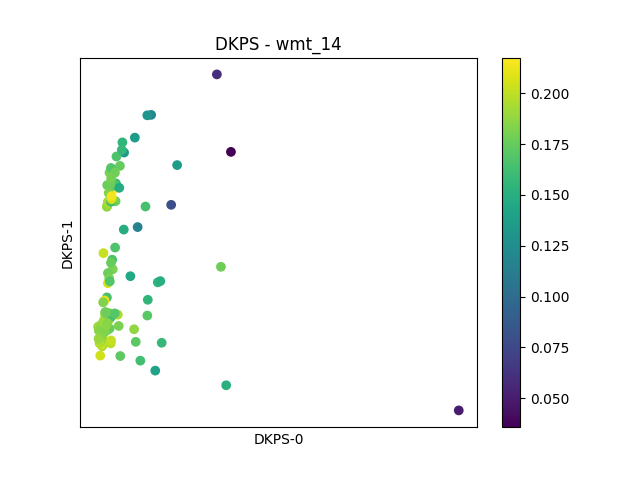
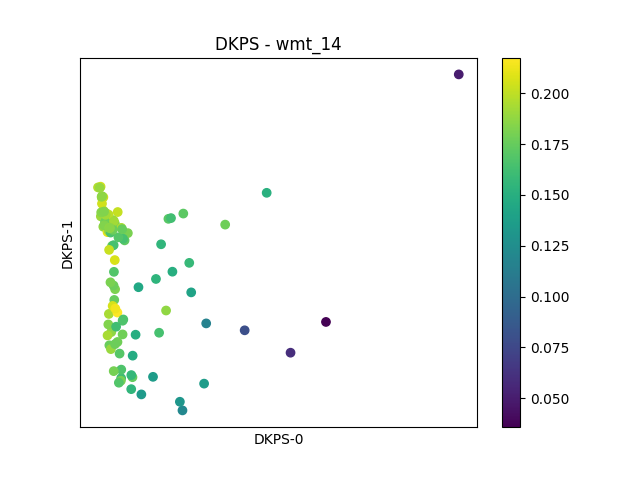
dkps loo experiments

diff --git a/examples/helm/wmt_14/run_dkps.py b/examples/helm/wmt_14/run_dkps.py
@@ -5,9 +5,12 @@
 
 import os
 import pickle
+import numpy as np
 import pandas as pd
 import matplotlib.pyplot as plt
 from rich import print as rprint
+
+from joblib import Parallel, delayed
 
 from dkps.dkps import DataKernelPerspectiveSpace
 from dkps.embed import embed_google
@@ -60,12 +63,19 @@ else:
     if USE_CACHE:
         pickle.dump(embedding_dict, open(CACHE_PATH, 'wb'))
 
+# Adding extra dimension because we only have one replicate
+embedding_dict = {k:v[:,None] for k,v in embedding_dict.items()}
+
 # --
 # Run DKPS
 
-dkps = DataKernelPerspectiveSpace().fit_transform(embedding_dict)
-
 model_names = list(embedding_dict.keys())
+
+dkps = DataKernelPerspectiveSpace().fit_transform(embedding_dict, return_dict=False)
+
+# --
+# Plotting
+
 model2score = df.groupby('model').score.mean().to_dict()
 _ = plt.scatter(dkps[:, 0], dkps[:,1], c=[model2score[xx] for xx in model_names], cmap='viridis')
 
@@ -76,14 +86,150 @@ _ = plt.scatter(dkps[:, 0], dkps[:,1], c=[model2score[xx] for xx in model_names]
 
 _ = plt.xticks([])
 _ = plt.yticks([])
+_ = plt.xlabel('DKPS-0')
+_ = plt.ylabel('DKPS-1')
 _ = plt.grid('both', alpha=0.25, c='gray')
 _ = plt.title(f'DKPS - {dataset}')
 _ = plt.colorbar()
 _ = plt.savefig(FIG_PATH)
 _ = plt.close()
 
-breakpoint()
-import numpy as np
-_ = plt.scatter(np.log10(dkps[:,0]), [model2score[xx] for xx in model_names])
-_ = plt.savefig(f'tmp.png')
+# Plot first DKPS dimension vs performance
+z = -1 * dkps[:,0]
+z = z - z.mean()
+z = z / z.std()
+
+_ = plt.scatter(z, [model2score[xx] for xx in model_names], c=dkps[:,1], cmap='inferno')
+_ = plt.xlim(np.percentile(z, 2), z.max() + 0.1)
+_ = plt.xlabel('DKPS-0 (flipped, z-scored)')
+_ = plt.ylabel('BLEU-4')
+_ = plt.colorbar()
+_ = plt.savefig(f'tmp-0.png')
 _ = plt.close()
+
+# Plot second DKPS dimension vs performance
+z = -1 * dkps[:,1]
+z = z - z.mean()
+z = z / z.std()
+
+_ = plt.scatter(z, [model2score[xx] for xx in model_names], c=dkps[:,0], cmap='inferno')
+# _ = plt.xlim(np.percentile(z, 2), z.max() + 0.1)
+_ = plt.xlabel('DKPS-1 (flipped, z-scored)')
+_ = plt.ylabel('BLEU-4')
+_ = plt.colorbar()
+_ = plt.savefig(f'tmp-1.png')
+_ = plt.close()
+
+# --
+# Efficient estimation
+
+from scipy.stats import spearmanr
+from sklearn.ensemble import RandomForestRegressor
+from sklearn.linear_model import LinearRegression
+from sklearn.model_selection import cross_val_predict, LeaveOneOut
+
+y    = np.array([model2score[xx] for xx in model_names])
+uids = df.instance_id.unique()
+
+def run_one(iter, n_records):
+    rng   = np.random.default_rng(123 + iter)
+    idxs_ = rng.choice(len(uids), size=n_records, replace=False)
+    uids_ = uids[idxs_]
+    
+    # predictions
+    dkps2  = DataKernelPerspectiveSpace(n_components_cmds=2).fit_transform({k:v[idxs_] for k,v in embedding_dict.items()}, return_dict=False)
+    dkps8  = DataKernelPerspectiveSpace(n_components_cmds=8).fit_transform({k:v[idxs_] for k,v in embedding_dict.items()}, return_dict=False)
+    
+    rf2    = RandomForestRegressor(n_estimators=512, oob_score=True, random_state=234 + iter).fit(dkps2, y)    
+    rf8    = RandomForestRegressor(n_estimators=512, oob_score=True, random_state=234 + iter).fit(dkps8, y)
+    
+    p_lr2  = cross_val_predict(LinearRegression(), dkps2, y, cv=LeaveOneOut())
+    p_lr8  = cross_val_predict(LinearRegression(), dkps8, y, cv=LeaveOneOut())
+    
+    # mu - average of scores for each model
+    p_mu = df[df.instance_id.isin(uids_)].groupby('model').score.mean()
+    assert all(p_mu.index == model_names)
+    
+    p_null_f = y.mean() # slight cheat - should be doing LOO
+    
+    # metrics
+    e_rf2_dkps = np.mean(np.abs(rf2.oob_prediction_ - y) / y)
+    e_rf8_dkps = np.mean(np.abs(rf8.oob_prediction_ - y) / y)
+    e_lr2_dkps = np.mean(np.abs(p_lr2 - y) / y)
+    e_lr8_dkps = np.mean(np.abs(p_lr8 - y) / y)
+    e_mu       = np.mean(np.abs(p_mu - y) / y)
+    e_null     = np.mean(np.abs(p_null_f - y) / y)
+    
+    r_rf2_dkps = spearmanr(rf2.oob_prediction_, y)[0]
+    r_rf8_dkps = spearmanr(rf8.oob_prediction_, y)[0]
+    r_lr2_dkps = spearmanr(p_lr2, y)[0]
+    r_lr8_dkps = spearmanr(p_lr8, y)[0]
+    r_mu       = spearmanr(p_mu, y)[0]
+    r_null      = 0
+    
+    return {
+        "iter"      : iter,
+        "n_records" : n_records,
+        
+        "e_rf2_dkps" : e_rf2_dkps,
+        "e_rf8_dkps" : e_rf8_dkps,
+        "e_lr2_dkps" : e_lr2_dkps,
+        "e_lr8_dkps" : e_lr8_dkps,
+        "e_mu"       : e_mu,
+        "e_null"     : e_null,
+        
+        "r_rf2_dkps" : r_rf2_dkps,
+        "r_rf8_dkps" : r_rf8_dkps,
+        "r_lr2_dkps" : r_lr2_dkps,
+        "r_lr8_dkps" : r_lr8_dkps,
+        "r_mu"       : r_mu,
+        "r_null"     : r_null,
+    }
+
+
+breakpoint()
+
+jobs = []
+for iter in range(10):
+    for n_records in [1, 2, 3, 4, 5, 6, 7, 8, 9, 10, 11, 12, 13, 14, 15, 16, 32, 64, 128, 256]:
+        jobs.append(delayed(run_one)(iter=iter, n_records=n_records))
+
+res = Parallel(n_jobs=-1, verbose=10)(jobs)
+
+df_res = pd.DataFrame(res)
+
+tmp = df_res.groupby(['n_records']).mean()
+tmp = tmp.reset_index()
+
+# plot error
+for c in df_res.columns:
+    if 'e_' in c:
+        # _ = plt.scatter(df_res.n_records, df_res[c], alpha=0.25, s=8)
+        _ = plt.plot(tmp.n_records, tmp[c], label=f'{c}')
+
+_ = plt.legend()
+_ = plt.xlabel('n_records')
+_ = plt.ylabel('mean(abs(pred - y) / y)')
+_ = plt.title('DKPS vs. null')
+_ = plt.xscale('log')
+# _ = plt.yscale('log')
+_ = plt.savefig('res0.png')
+_ = plt.close()
+
+# plot corr
+for c in df_res.columns:
+    if 'r_' in c:
+        # _ = plt.scatter(df_res.n_records, df_res[c], alpha=0.25, s=8)
+        _ = plt.plot(tmp.n_records, tmp[c], label=f'{c}')
+
+_ = plt.legend()
+_ = plt.xlabel('n_records')
+_ = plt.ylabel('spearmanr(pred, y)')
+_ = plt.title('DKPS vs. null')
+_ = plt.xscale('log')
+# _ = plt.yscale('log')
+_ = plt.savefig('res1.png')
+_ = plt.close()
+
+
+breakpoint()

diff --git a/dkps/dkps.py b/dkps/dkps.py
@@ -7,48 +7,47 @@ from .utils import knn_graph
 
 
 class DataKernelPerspectiveSpace:
-    def __init__(self,
-                response_distribution_fn=np.mean,
-                response_distribution_axis=1,
-                metric_cmds='euclidean',
-                n_components_cmds=None,
-                n_elbows_cmds=2,
-                ):
-        self.response_distribution_fn=response_distribution_fn
-        self.response_distribution_axis=response_distribution_axis
-        self.metric_cmds=metric_cmds
-        self.n_components_cmds=n_components_cmds
-        self.n_elbows_cmds=n_elbows_cmds
-
-
-    def fit_transform(self, X):
-        if isinstance(X, dict):
-            self.model_list = list(X.keys())
-            X = list(X.values())
-
+    def __init__(
+            self,
+            response_distribution_fn=np.mean,
+            response_distribution_axis=1,
+            metric_cmds='euclidean',
+            n_components_cmds=None,
+            n_elbows_cmds=2,
+        ):
         
-        if isinstance(X, (list, np.ndarray)):
-            self.model_list = None
-            n_queries = len(X[0])
-            for i,x in enumerate(X):
-                x = np.array(x)
-                assert x.ndim >= 2
-                assert x.shape[0] == n_queries
+        self.response_distribution_fn   = response_distribution_fn
+        self.response_distribution_axis = response_distribution_axis
+        self.metric_cmds                = metric_cmds
+        self.n_components_cmds          = n_components_cmds
+        self.n_elbows_cmds              = n_elbows_cmds
 
-                X[i]=self.response_distribution_fn(x, self.response_distribution_axis)
-                    
+
+    def fit_transform(self, data, return_dict=True):
+        """
+        data: dict {model_name: np.array(n_queries, n_replicates, embedding_dim)}
+        """
+        
+        # qc checks
+        assert isinstance(data, dict),                                  'data must be a dict'
+        assert all([isinstance(x, np.ndarray) for x in data.values()]), 'all values must be numpy arrays'
+        assert all([x.ndim == 3 for x in data.values()]),               'all arrays must be 3D - np.array(n_queries, n_replicates, embedding_dim)'
+        assert len(set([x.shape for x in data.values()])) == 1,         'all arrays must have the same shape'
+
+        # aggregate over replicates -> (n_models, n_queries, embedding_dim)
+        X = np.stack([self.response_distribution_fn(v, axis=self.response_distribution_axis) for k,v in data.items()])
+        n_models, n_queries, embedding_dim = X.shape
+        
+        # flatten -> (n_models, n_queries * embedding_dim)
+        X_flat = X.reshape(len(X), -1)
+
+        dist_matrix = squareform(pdist(X_flat, metric=self.metric_cmds)) / np.sqrt(n_queries)
+        cmds_embds  = ClassicalMDS(n_components=self.n_components_cmds, n_elbows=self.n_elbows_cmds).fit_transform(dist_matrix)
+        
+        if return_dict:
+            return {key: cmds_embds[i] for i, key in enumerate(data.keys())}
         else:
-            raise ValueError('X must be a dict of array-like values or array-like with elements with at least 2 dimensions')
-
-        X = np.array(X)
-        #- this only works in cases where representation of models are matrices
-        dist_matrix = squareform(pdist(X.reshape(len(X), -1), metric=self.metric_cmds)) / np.sqrt(n_queries)
-        cmds_embds = ClassicalMDS(self.n_components_cmds, self.n_elbows_cmds).fit_transform(dist_matrix)
-        
-        if self.model_list:
-            return {key: cmds_embds[i] for i, key in enumerate(self.model_list)}
-        
-        return cmds_embds
+            return cmds_embds
 
 
 class DataKernelFunctionalSpace:
